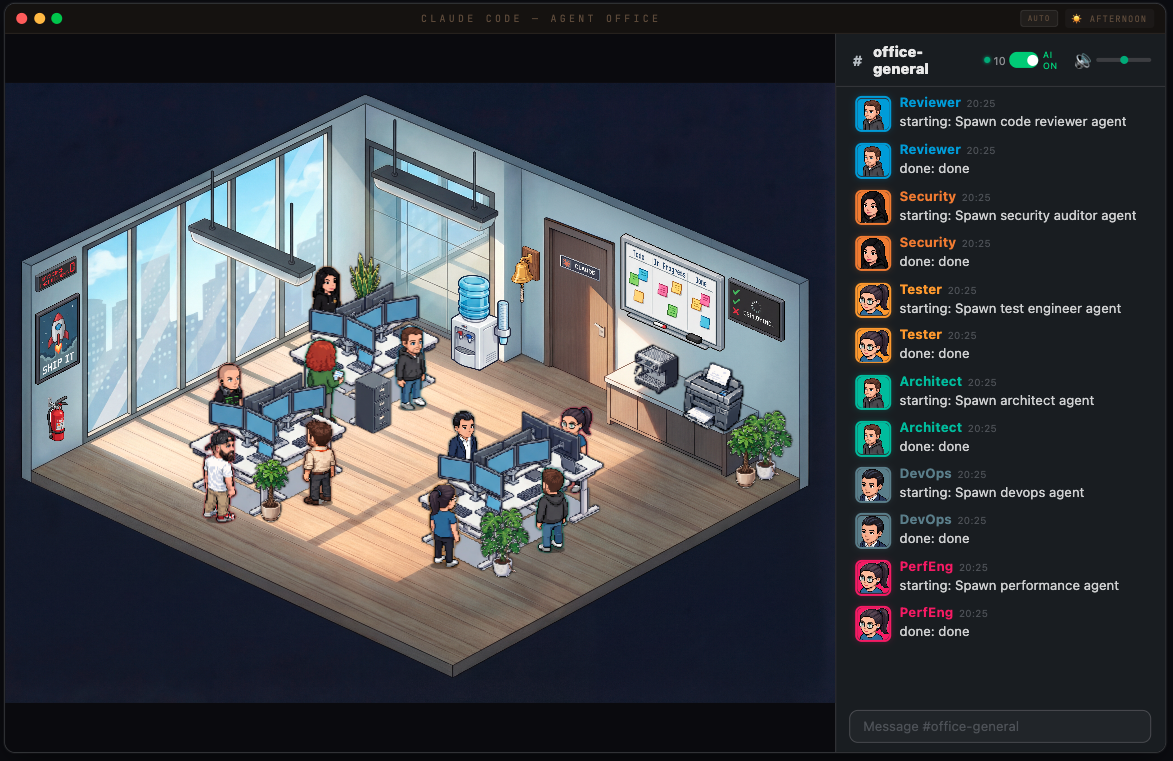
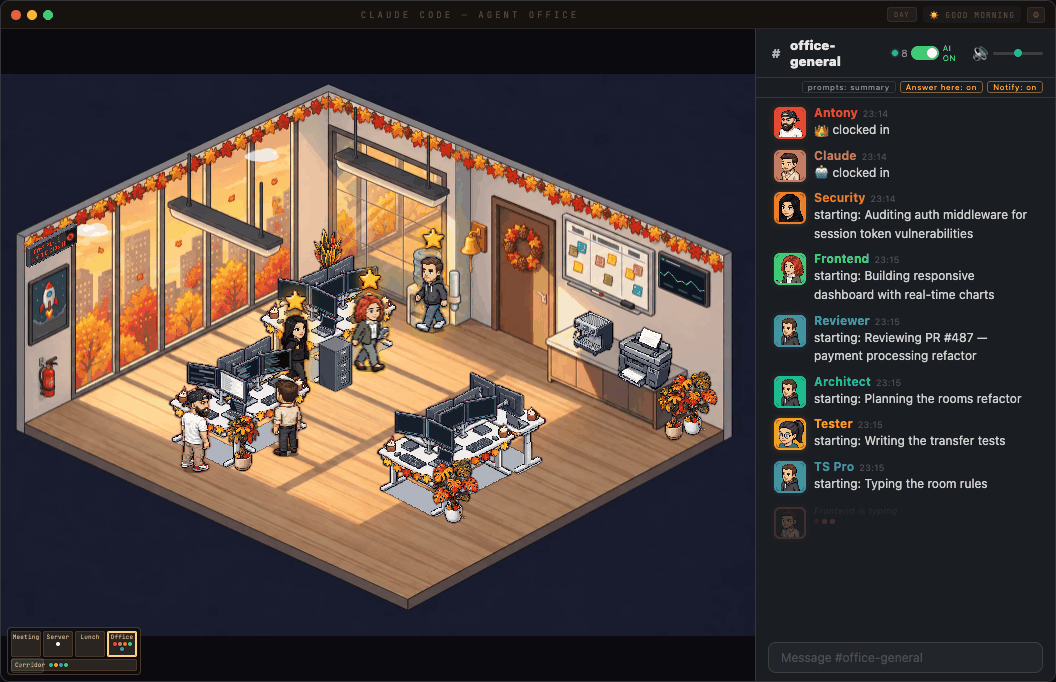
README: rooms, seasons, Halloween and the shouting boss, with new screenshots (#109)
- New "rooms, seasons and a quieter office" section: the four rooms, all
  eight seasons and Halloween in Dunder Mifflin mode, captured from the
  current build in ?sim.
- claudes-turn.gif re-recorded: the boss now shouts the prompt instead of
  walking it over (a scripted session on a throwaway server).
- Day and night window shots retaken.
- The seasons and rooms feature lines no longer say they are waiting for art.

diff --git a/README.md b/README.md
@@ -2,13 +2,34 @@
 
 A pixel art virtual office that visualizes your AI agents working in real-time. Watch Claude Code agents spawn, sit at desks, take coffee breaks, and chat in a Slack-inspired office chat panel — all rendered in an isometric pixel art office.
 
+## Update — rooms, seasons and a quieter office
+
+**What's new**
+- **Four more rooms** — a corridor, a meeting room, a server room and a lunch room. Click a door in the picture (or the floor plan in the corner) and the stage goes there; your boss walks over through the corridor
+- **The office follows the calendar** — spring, summer, autumn and winter all year round, with Christmas, Halloween, Easter and Valentine's Day on top: decorated rooms, desks and plants in both themes
+- **Halloween costumes** — Claude is a vampire and the boss a wizard; in Dunder Mifflin mode Michael, Dwight, Jim and Pam dress up and everyone else wears a mask or a witch hat
+- **The boss shouts the prompt** from where he stands instead of walking it over; the Claude it's for gets a "!"
+- **Prompts from the chat** — type `@agent-office fix the failing test` in the office chat and that session picks it up when its turn ends
+- **A quieter soundtrack** — a soft ambient office instead of bleeps, with gentle cues for a prompt sent, a reply in and Claude needing you (turn the ambience off in Settings)
+- **Your phone** — `npm run lan` prints a QR code; taps on the phone (water a plant, ring the bell) play on the desktop too
+- The full list is in the [CHANGELOG](CHANGELOG.md)
+
+### The rooms
+![The corridor with its five doors, the meeting room, the server room with its racks, and the lunch room](docs/images/rooms.png)
+
+### Every season
+![The office at Christmas, Halloween, Easter, Valentine's Day, and in spring, summer, autumn and winter](docs/images/seasons.png)
+
+### Halloween in Dunder Mifflin mode
+![The Scranton office decorated for Halloween, with masks and a witch hat on the staff](docs/images/halloween-dunder-mifflin.png)
+
 ## Update — 1.1: the level-up
 
 > We had 12 hours and 90 % of our 20x plan still to use 😂 so I asked Claude to level up Claude Office (using Fable 5.1 <img src="docs/images/claude-crab.gif" height="36" alt="" align="absmiddle"> and <img src="docs/images/ultracode.svg" height="20" alt="ultracode" align="absmiddle">).
 
 **What's new**
 - **A Claude for every terminal** — each Claude Code session gets its own pill, model badge and Claude at a desk
-- **Claude acts out the turn** — the boss walks your prompt over, Claude types, naps when it's done
+- **Claude acts out the turn** — the boss shouts your prompt across the office, Claude types, naps when it's done
 - **✋ Needs you** — a permission prompt raises Claude's hand with a chime, and you can click **Allow** right in the office
 - **Click anyone** — an inspector card shows what they're doing, every tool they've called and what they've said
 - **Prod Is Down** — a failed deploy turns the office red; a 🚀 for deploys, a 🎉 for pushes to main, ❌ for failing tests
@@ -18,7 +39,7 @@ A pixel art virtual office that visualizes your AI agents working in real-time. 
 - Plus three bug hunts, a security pass and 972 tests — the full list is in the [CHANGELOG](CHANGELOG.md)
 
 ### Claude's turn, start to nap
-![The boss hands the prompt to Claude, workers come and go, Claude holds a glass of water while a worker is out, then falls asleep](docs/images/claudes-turn.gif)
+![The boss shouts the prompt from his desk, Claude gets a '!' and starts typing, a worker comes in to help and leaves, then Claude replies](docs/images/claudes-turn.gif)
 
 ### Click a character
 ![Inspector card: the task, tools used with a failed call in red, tokens and model, and the end of the agent's own transcript](docs/images/inspector.png)
@@ -121,10 +142,10 @@ Toggle it off any time with `/the-office` again — state persists in `localStor
 - Boss character (you) with an energy drink, Claude with coffee
 - Random office events: pizza deliveries, fire drills, power flickers, printer jams
 - Day/night cycle with smooth transitions
-- Seasons: the office follows the calendar, spring, summer, autumn and winter all year round with Christmas, Halloween, Easter and Valentine's Day on top. Christmas is drawn; the other seven are wired up and show the normal office until their art is added — see [Seasons](docs/reference.md#seasons)
+- Seasons: the office follows the calendar, spring, summer, autumn and winter all year round with Christmas, Halloween, Easter and Valentine's Day on top, every one drawn in both themes — see [Seasons](docs/reference.md#seasons)
 - **Settings** (the ⚙ in the title bar): theme, day/night, season, sound and the server settings in one panel — see [Settings](docs/reference.md#settings-panel)
 - **Today** (bottom-right of the status strip): the day's sessions, agents, tasks, deploys, failures, incidents and payroll, kept across restarts — or `/recap` in the chat
-- **More rooms, arriving with their art**: a corridor, a meeting room, a server room and a lunch room are built and stay closed until each is drawn; `?sim&rooms=all` previews them on placeholders — see [Rooms](docs/reference.md#rooms)
+- **More rooms**: a corridor, a meeting room, a server room and a lunch room; click a door or the floor plan to go there and the boss follows — see [Rooms](docs/reference.md#rooms)
 
 **AI-Powered Office Chat**
 - Back-and-forth conversation with Claude through the office chat panel
